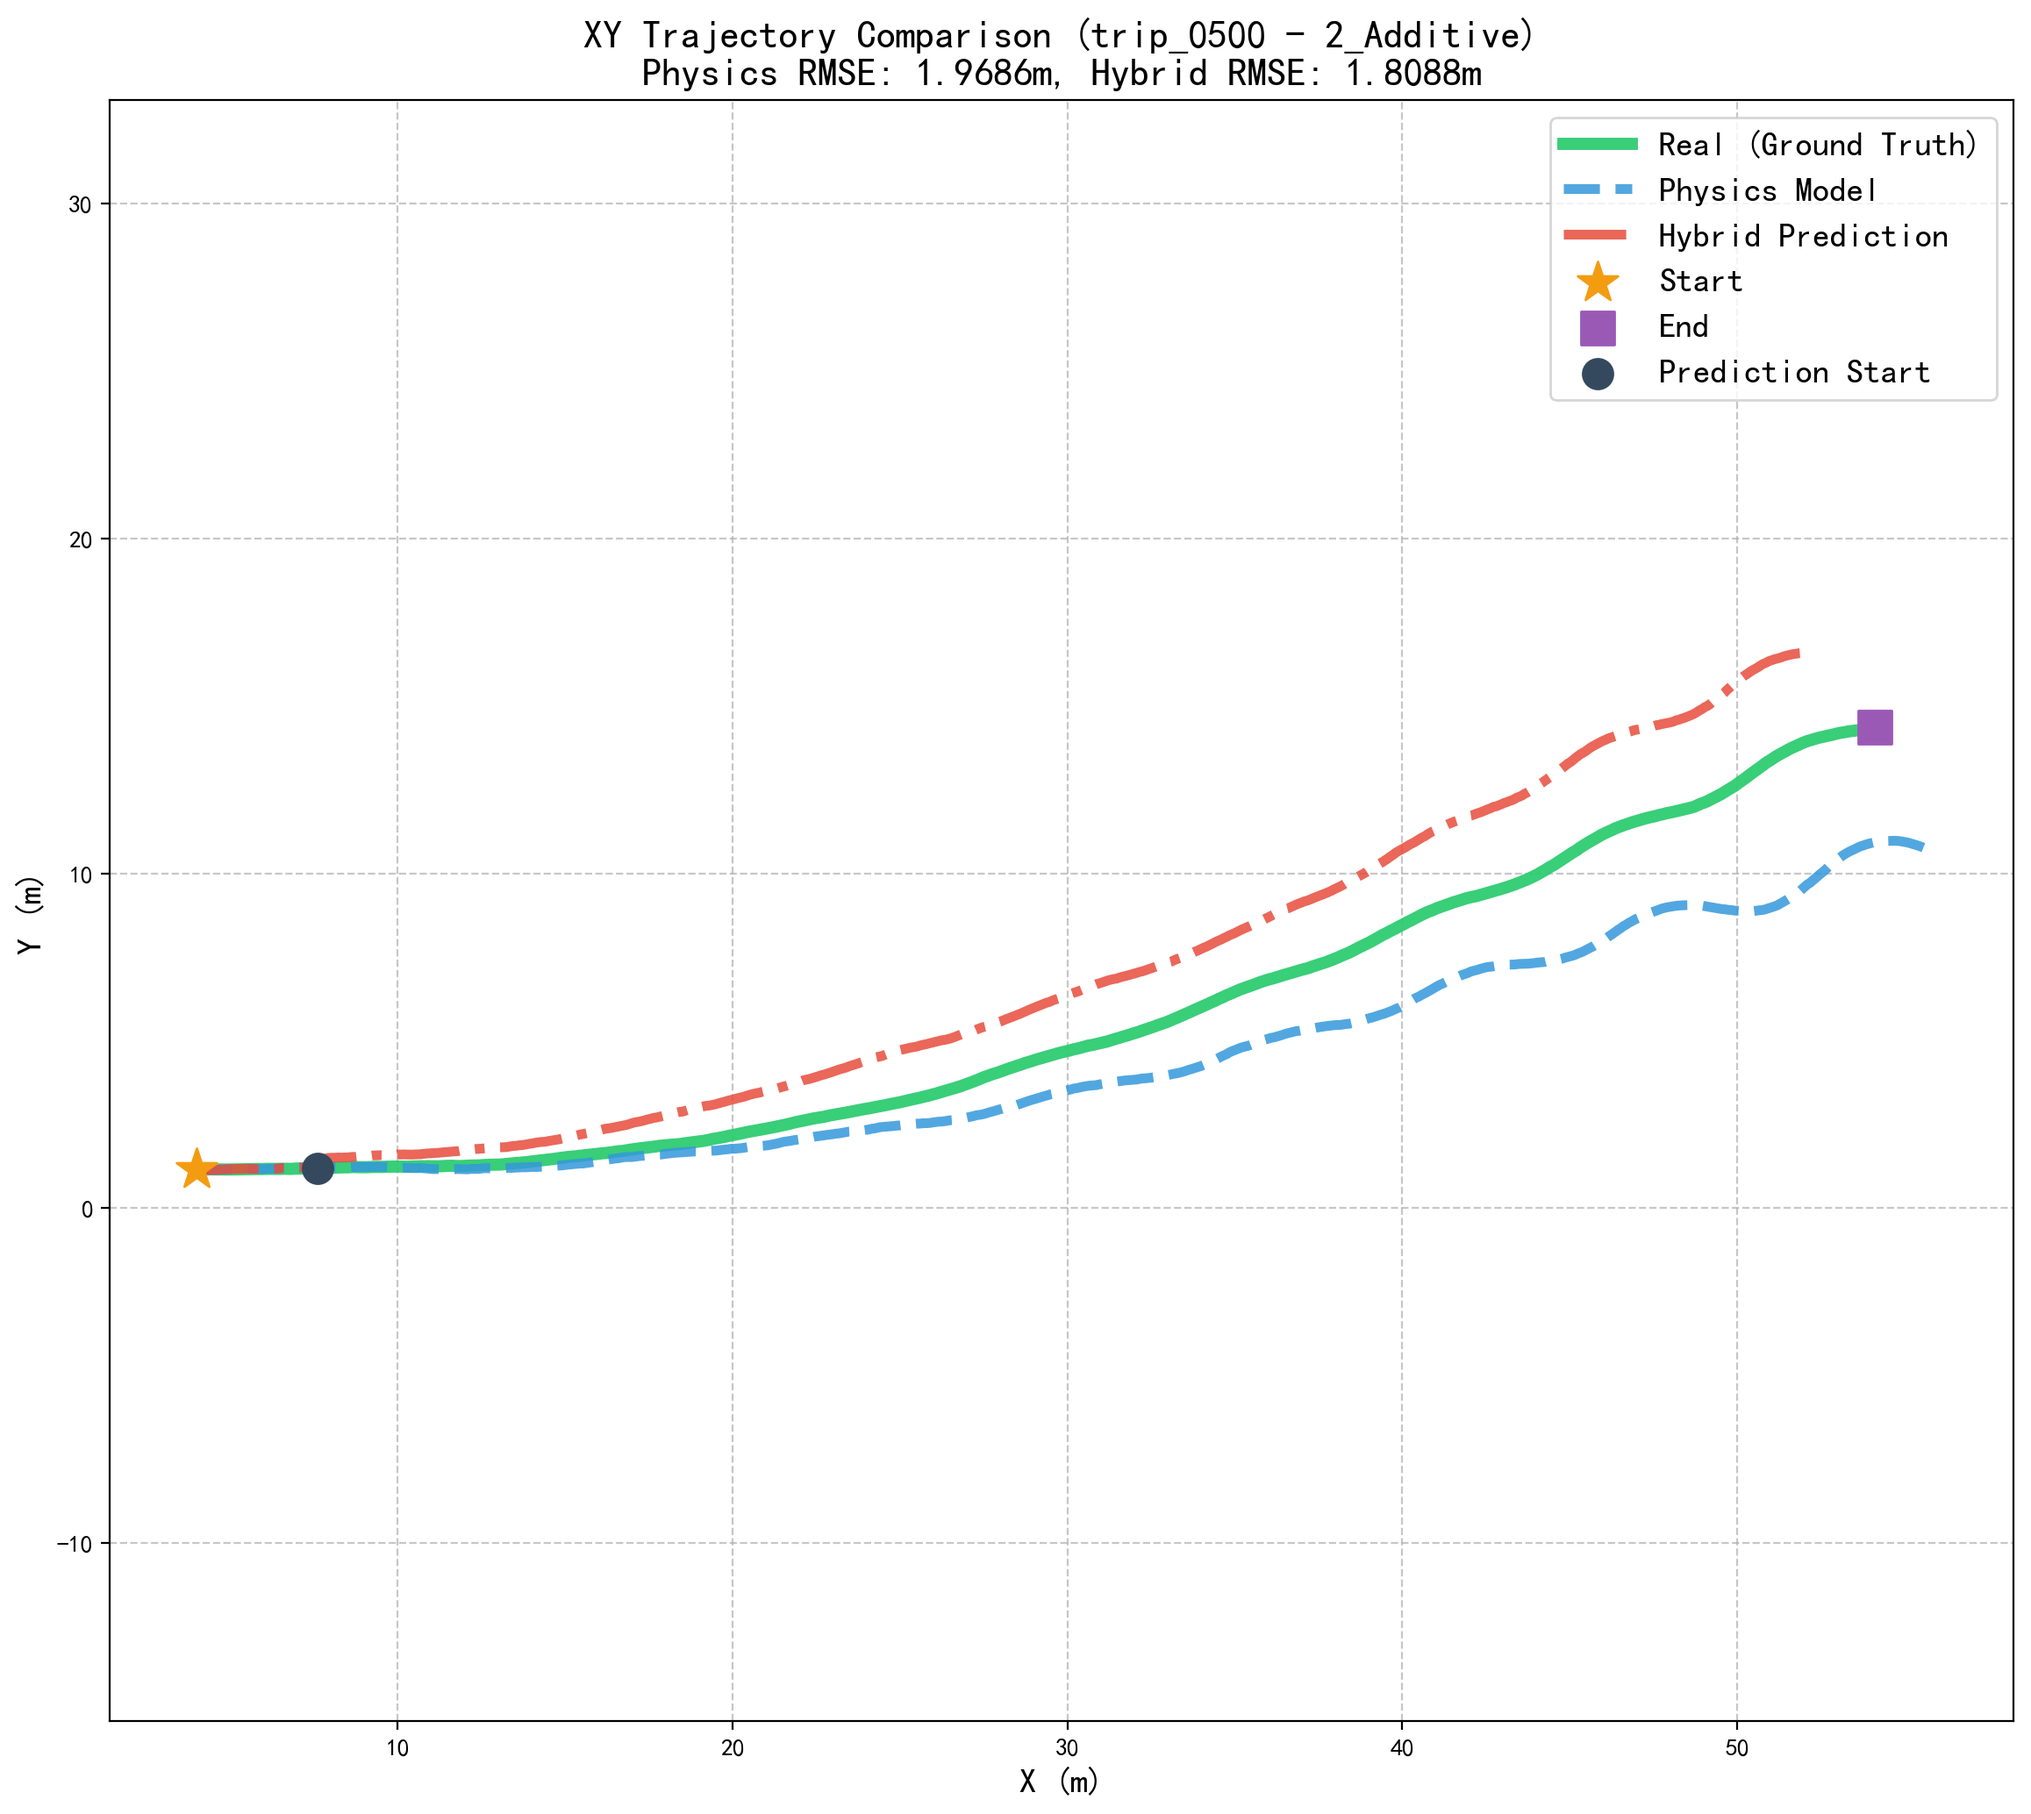
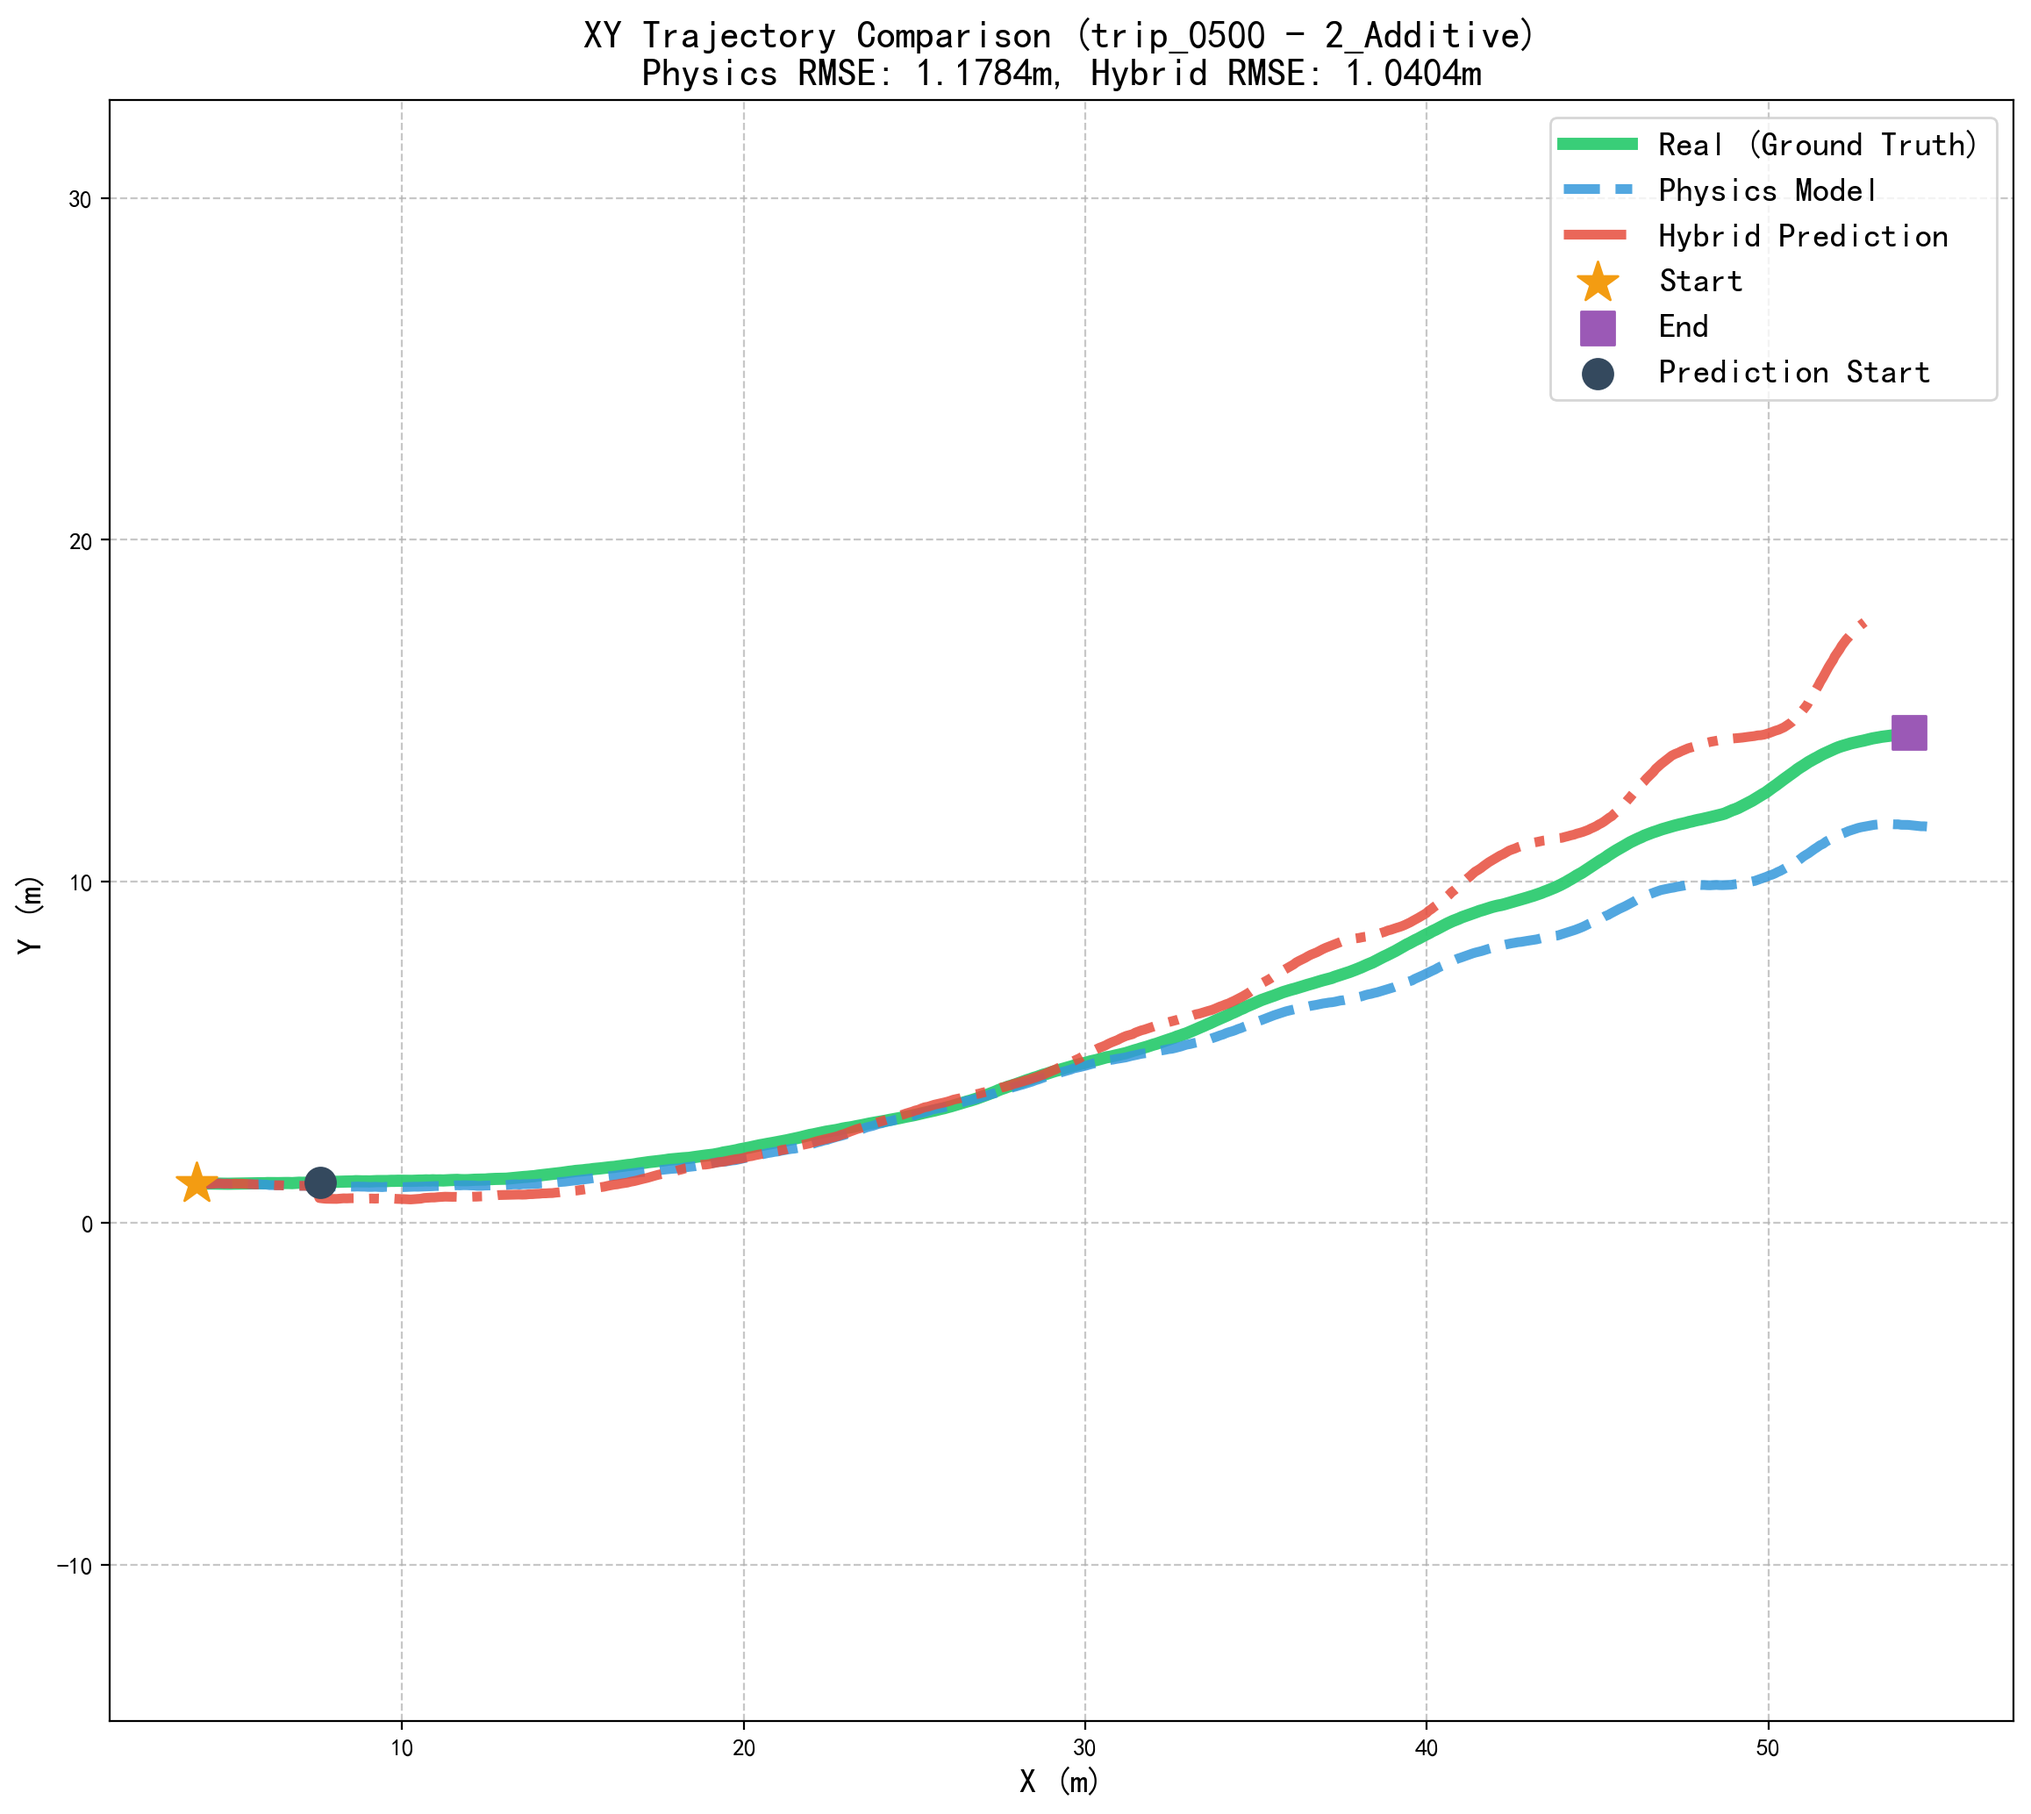
060701

diff --git a/Inference_mul.py b/Inference_mul.py
@@ -6,11 +6,20 @@ import glob
 import pickle
 import joblib
 from scipy import signal
+from scipy.signal import butter, filtfilt
 import sys
 import argparse
 import time
 from datetime import datetime
 import json
+
+def butter_lowpass_filter(data, cutoff_freq, fs=100, order=1):
+    """低通滤波器 - 与训练数据生成时使用的一致"""
+    nyq = 0.5 * fs
+    normal_cutoff = cutoff_freq / nyq
+    b, a = butter(order, normal_cutoff, btype='low', analog=False)
+    y = filtfilt(b, a, data)
+    return y
 
 from model import DyTR_LSTM
 from InferVisualizer import InferVisualizer
@@ -397,6 +406,22 @@ class InferModel:
         if physics_states.shape[1] > 2:
             tmp_norm_angles = self.normalize_angle_sequence(physics_states[:, 2])
             physics_states[:, 2] = tmp_norm_angles.flatten()
+        
+        # 添加低通滤波 - 与训练数据生成时保持一致
+        fs = 1.0 / self.dt  # 采样频率
+        cutoff_freq = 0.01   # 截止频率
+        # physics_states 的格式: [vlon, vlat, yaw, omega, acc_lon, acc_lat, acc_yaw]
+        if physics_states.shape[1] >= 4:
+            # 对状态量进行滤波 (vlon, vlat, yaw, omega)
+            physics_states[:, 0] = butter_lowpass_filter(physics_states[:, 0], cutoff_freq, fs, order=1)
+            physics_states[:, 1] = butter_lowpass_filter(physics_states[:, 1], cutoff_freq, fs, order=1)
+            physics_states[:, 2] = butter_lowpass_filter(physics_states[:, 2], cutoff_freq, fs, order=1)
+            physics_states[:, 3] = butter_lowpass_filter(physics_states[:, 3], cutoff_freq, fs, order=1)
+            # 对加速度进行滤波
+            if physics_states.shape[1] >= 7:
+                physics_states[:, 4] = butter_lowpass_filter(physics_states[:, 4], cutoff_freq, fs, order=1)
+                physics_states[:, 5] = butter_lowpass_filter(physics_states[:, 5], cutoff_freq, fs, order=1)
+                physics_states[:, 6] = butter_lowpass_filter(physics_states[:, 6], cutoff_freq, fs, order=1)
         
         return physics_states, np.array(physics_xy)
 
